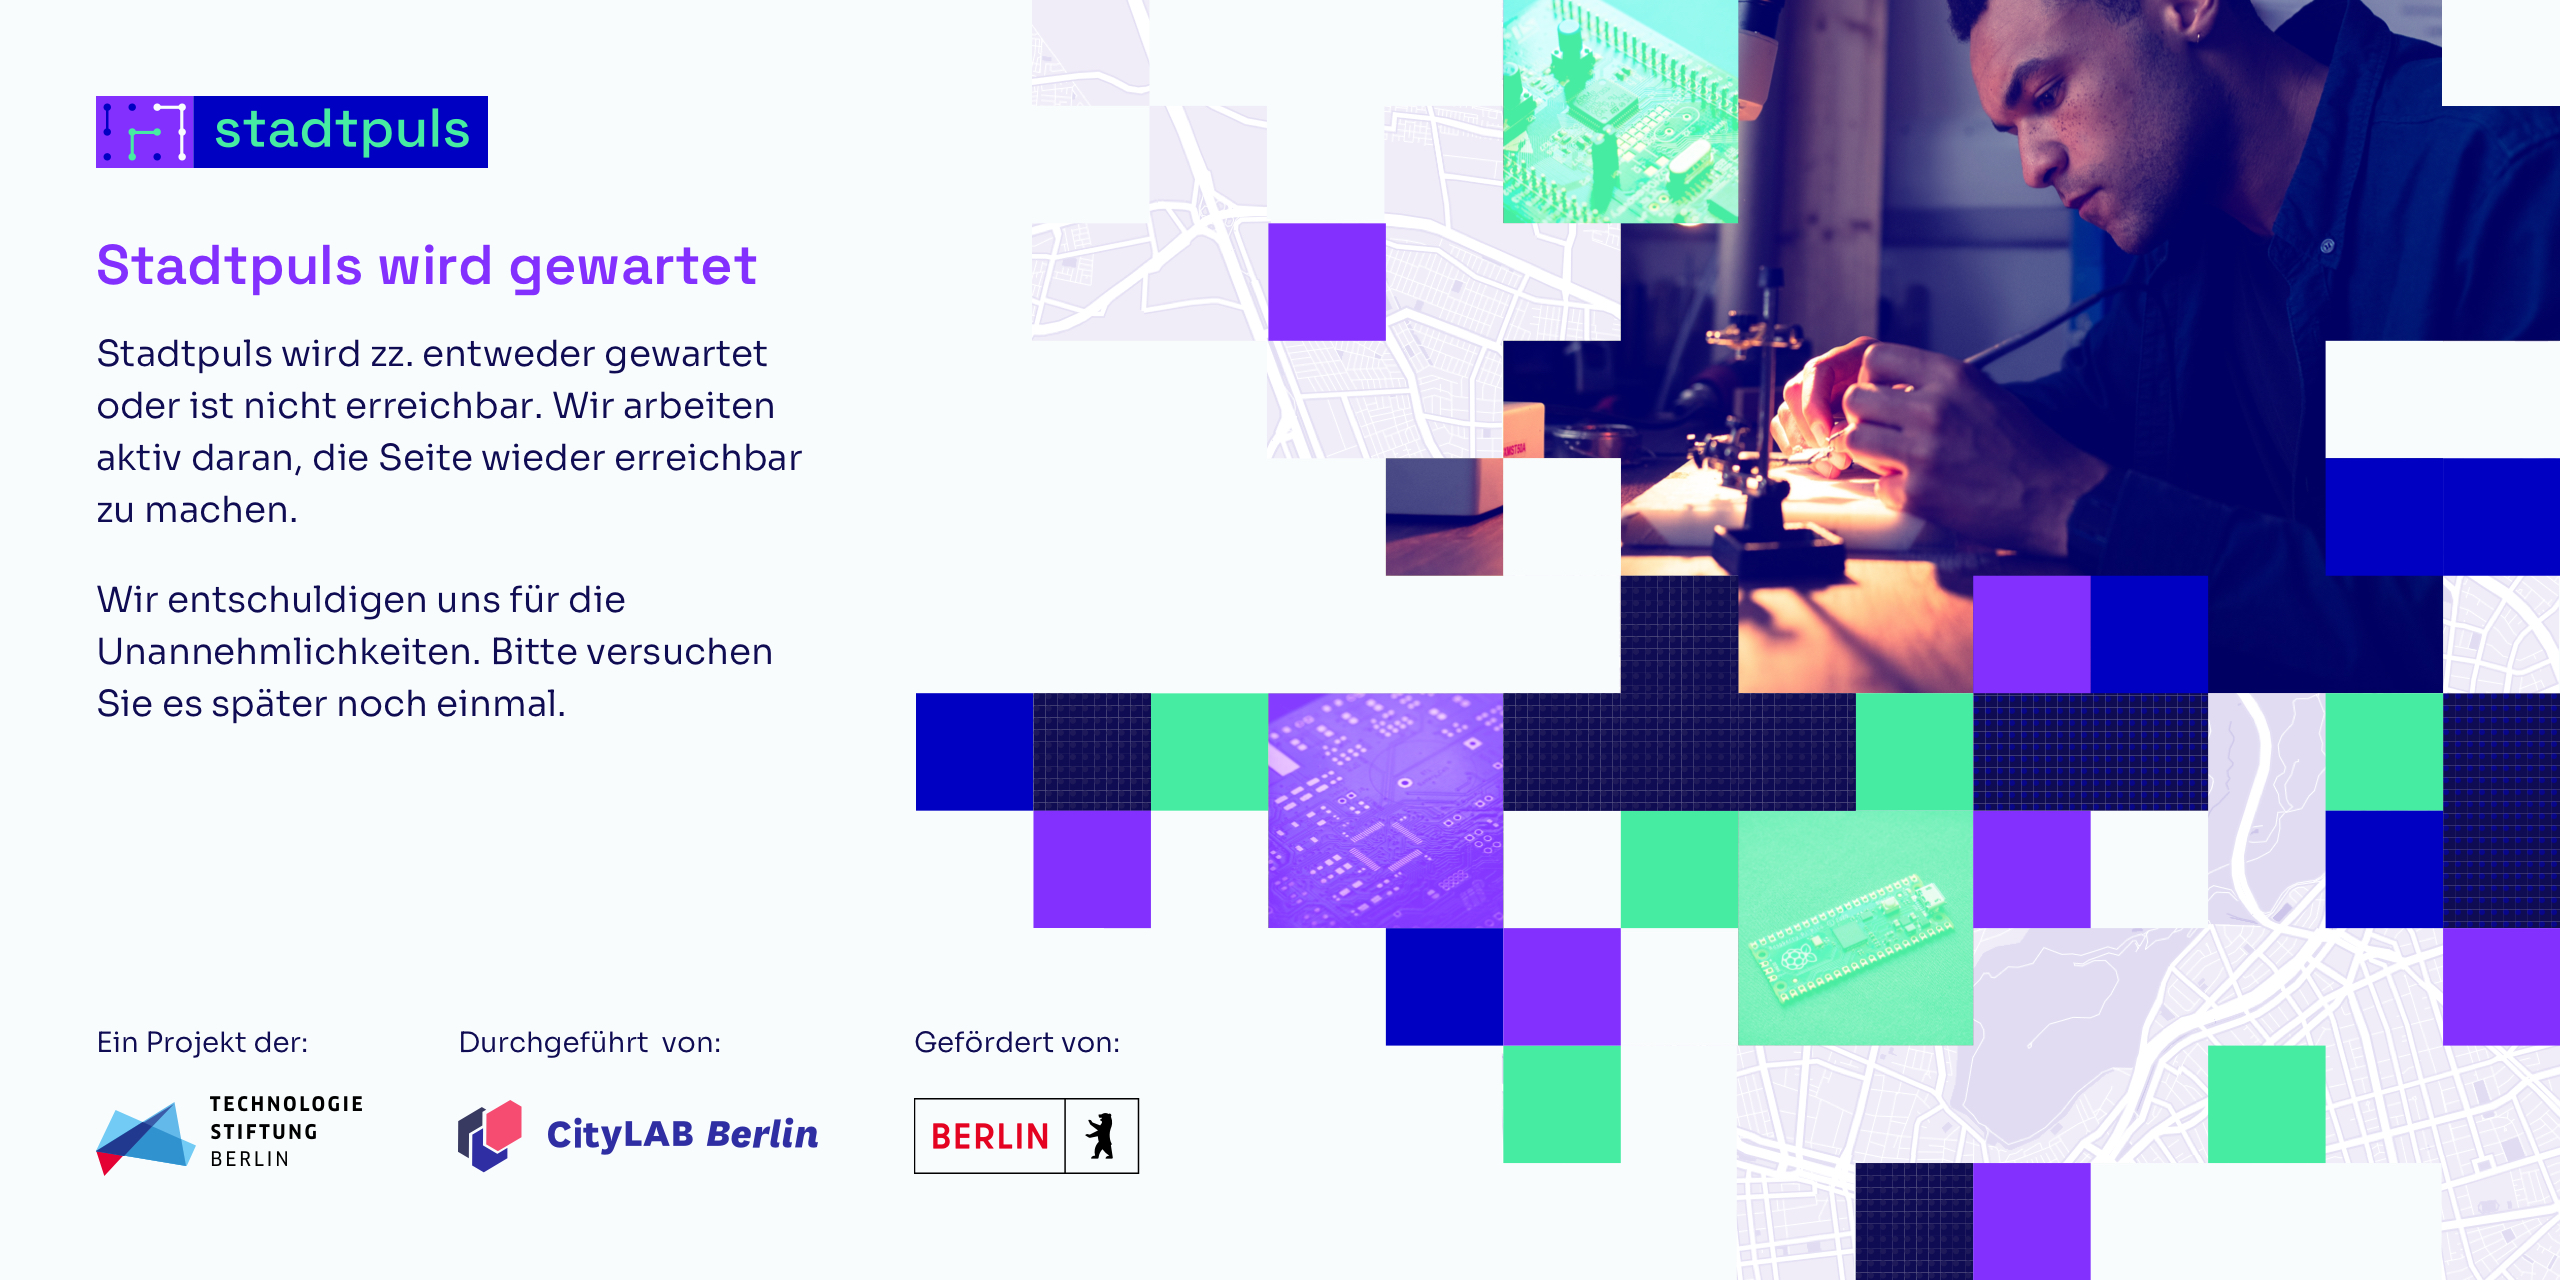
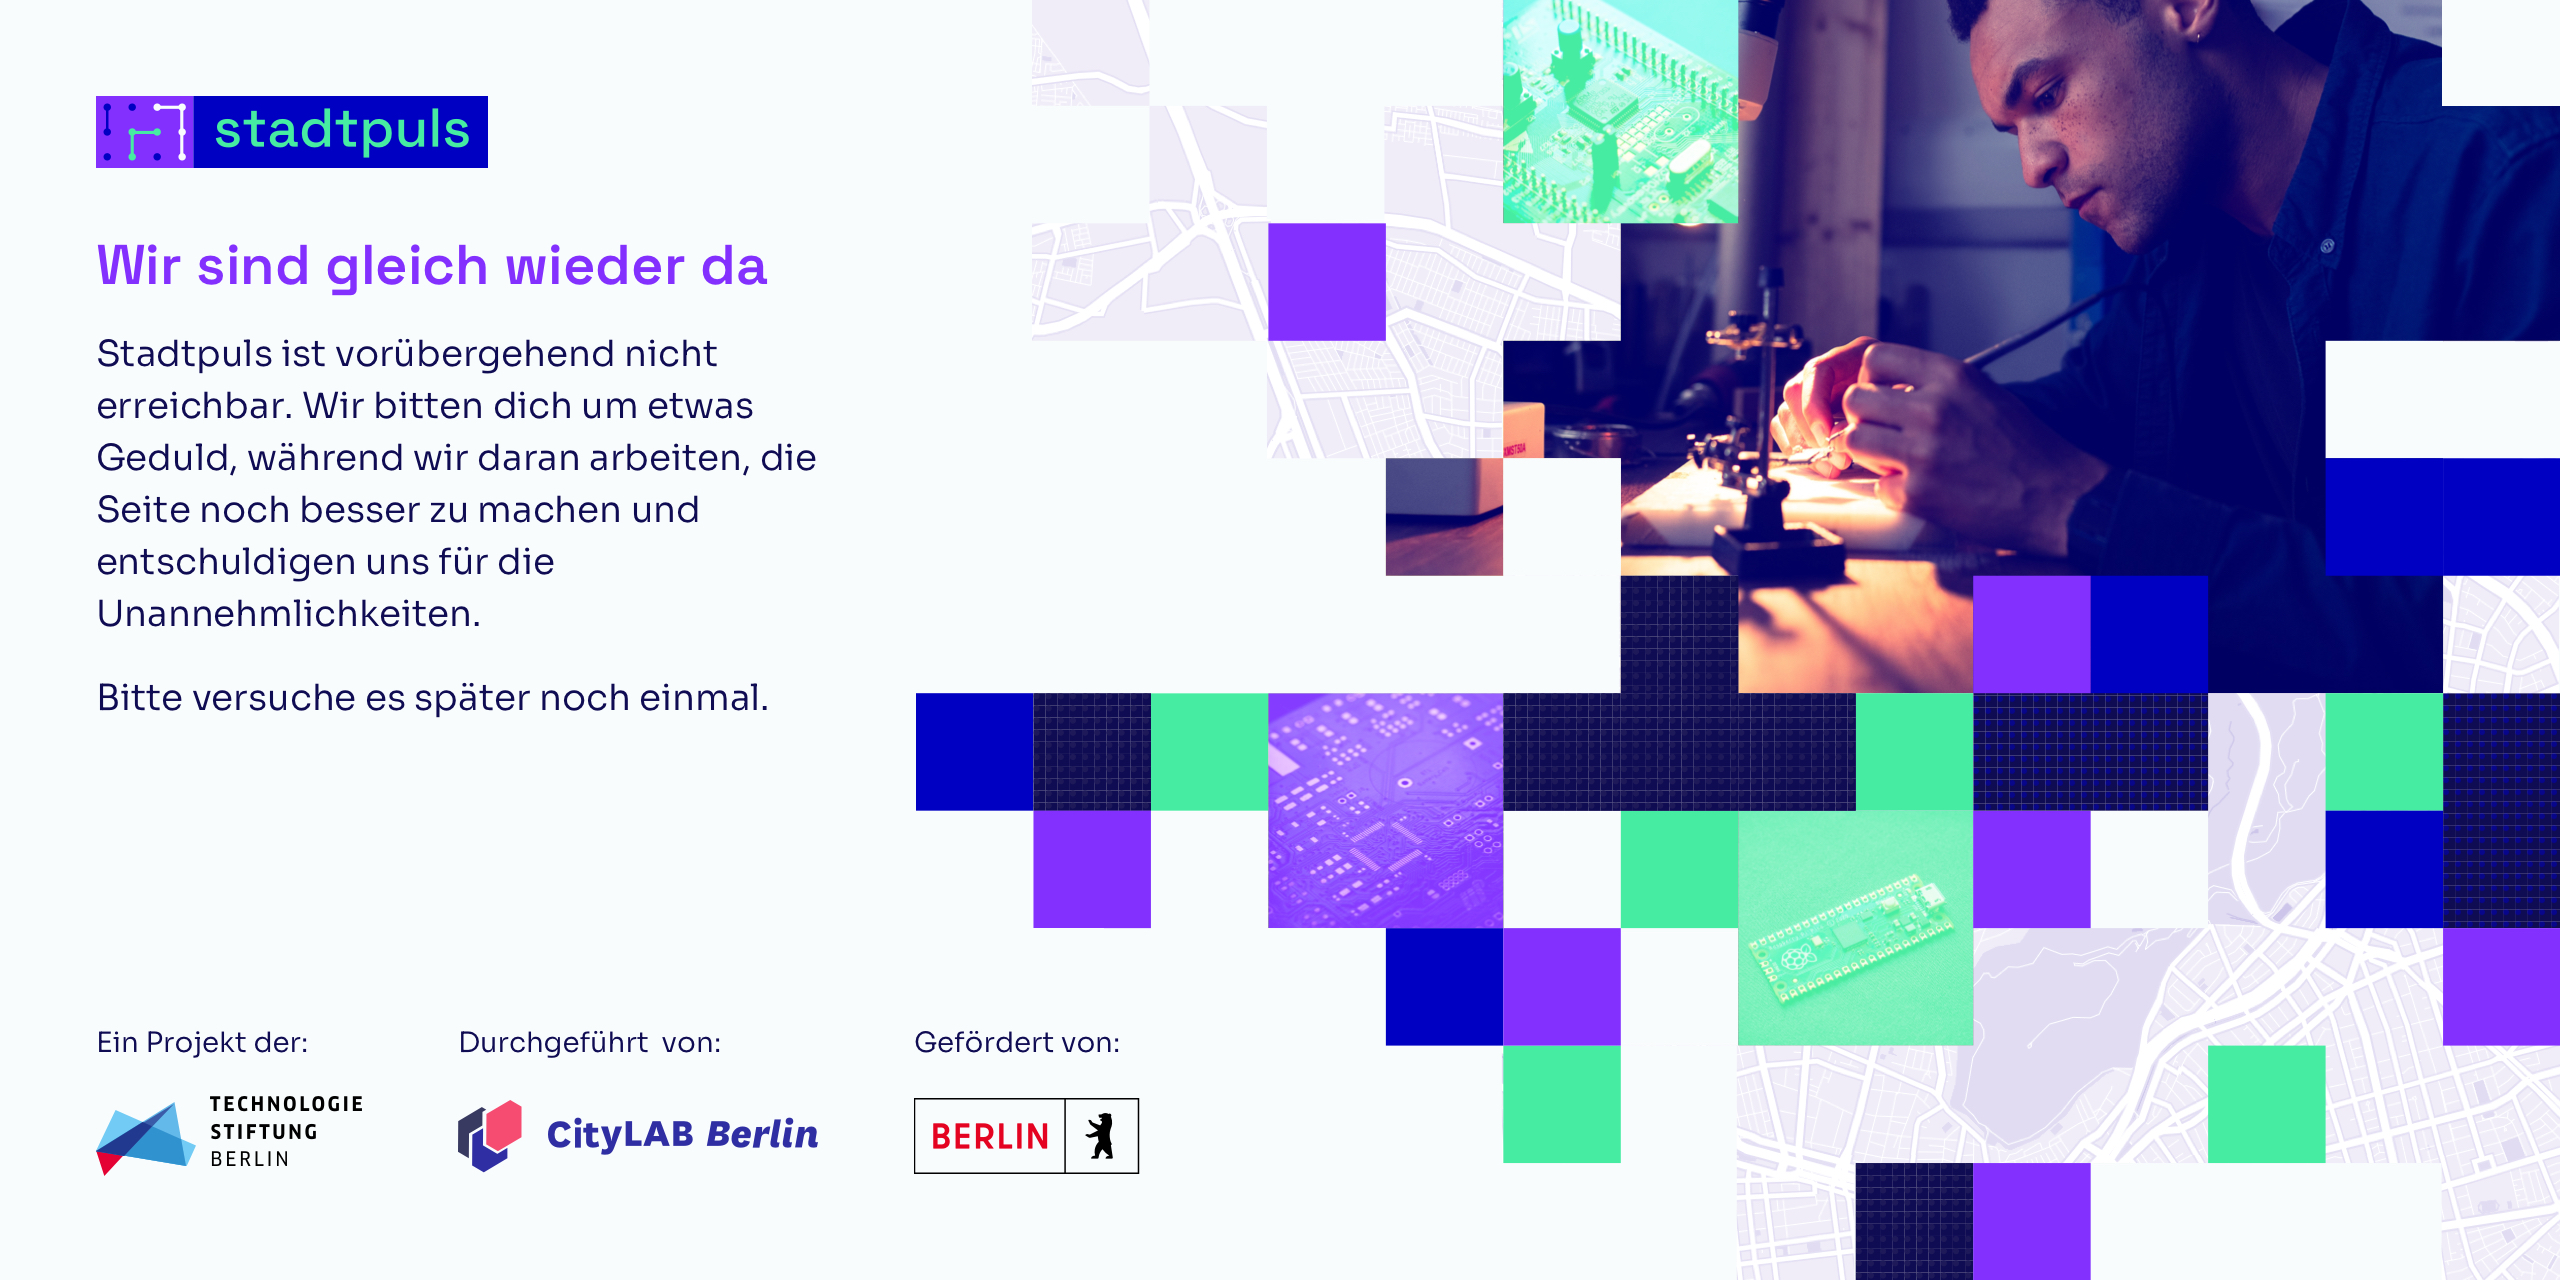
fix(texts): Adapt texts based on feedback

Changed region(s): [[0.0312, 0.1875, 0.3125, 0.5625]]

diff --git a/src/index.html b/src/index.html
@@ -6,10 +6,10 @@
     <meta name="viewport" content="width=device-width, initial-scale=1.0" />
     <meta name="robots" content="noindex">
 
-    <title>Stadtpuls ist zurzeit unerreichbar</title>
+    <title>Stadtpuls wird gewartet</title>
     <meta
       name="description"
-      content="Stadtpuls wird zz. entweder gewartet oder ist nicht erreichbar. Wir arbeiten aktiv daran, die Seite wieder erreichbar zu machen."
+      content="Stadtpuls ist vorübergehend nicht erreichbar. Wir bitten dich um etwas Geduld, während wir daran arbeiten, die Seite noch besser zu machen und entschuldigen uns für die Unannehmlichkeiten."
     />
     <meta name="theme-color" content="#8330ff" />
     <meta
@@ -20,7 +20,7 @@
     <meta itemprop="name" content="Stadtpuls wird gewartet" />
     <meta
       itemprop="description"
-      content="Stadtpuls wird zz. entweder gewartet oder ist nicht erreichbar. Wir arbeiten aktiv daran, die Seite wieder erreichbar zu machen."
+      content="Stadtpuls ist vorübergehend nicht erreichbar. Wir bitten dich um etwas Geduld, während wir daran arbeiten, die Seite noch besser zu machen und entschuldigen uns für die Unannehmlichkeiten."
     />
 
     <meta property="og:title" content="Stadtpuls wird gewartet" />
@@ -29,7 +29,7 @@
     <meta property="og:url" content="https://stadtpuls.com/" />
     <meta
       property="og:description"
-      content="Stadtpuls wird zz. entweder gewartet oder ist nicht erreichbar. Wir arbeiten aktiv daran, die Seite wieder erreichbar zu machen."
+      content="Stadtpuls ist vorübergehend nicht erreichbar. Wir bitten dich um etwas Geduld, während wir daran arbeiten, die Seite noch besser zu machen und entschuldigen uns für die Unannehmlichkeiten."
     />
     <meta property="og:site_name" content="Stadtpuls wird gewartet" />
 
@@ -82,14 +82,15 @@
             />
           </a>
           <article>
-            <h1 class="header-title">Stadtpuls wird gewartet</h1>
+            <h1 class="header-title">Wir sind gleich wieder da</h1>
             <p class="header-text">
-              Stadtpuls wird zz. entweder gewartet oder ist nicht erreichbar.
-              Wir arbeiten aktiv daran, die Seite wieder erreichbar zu machen.
+              Stadtpuls ist vorübergehend nicht erreichbar.
+              Wir bitten dich um etwas Geduld, während wir daran arbeiten,
+              die Seite noch besser zu machen und entschuldigen uns für die
+              Unannehmlichkeiten.
             </p>
             <p class="header-footnote">
-              Wir entschuldigen uns für die Unannehmlichkeiten.<br />
-              Bitte versuchen Sie es später noch einmal. 
+              Bitte versuche es später noch einmal.
             </p>
           </article>
         </section>
